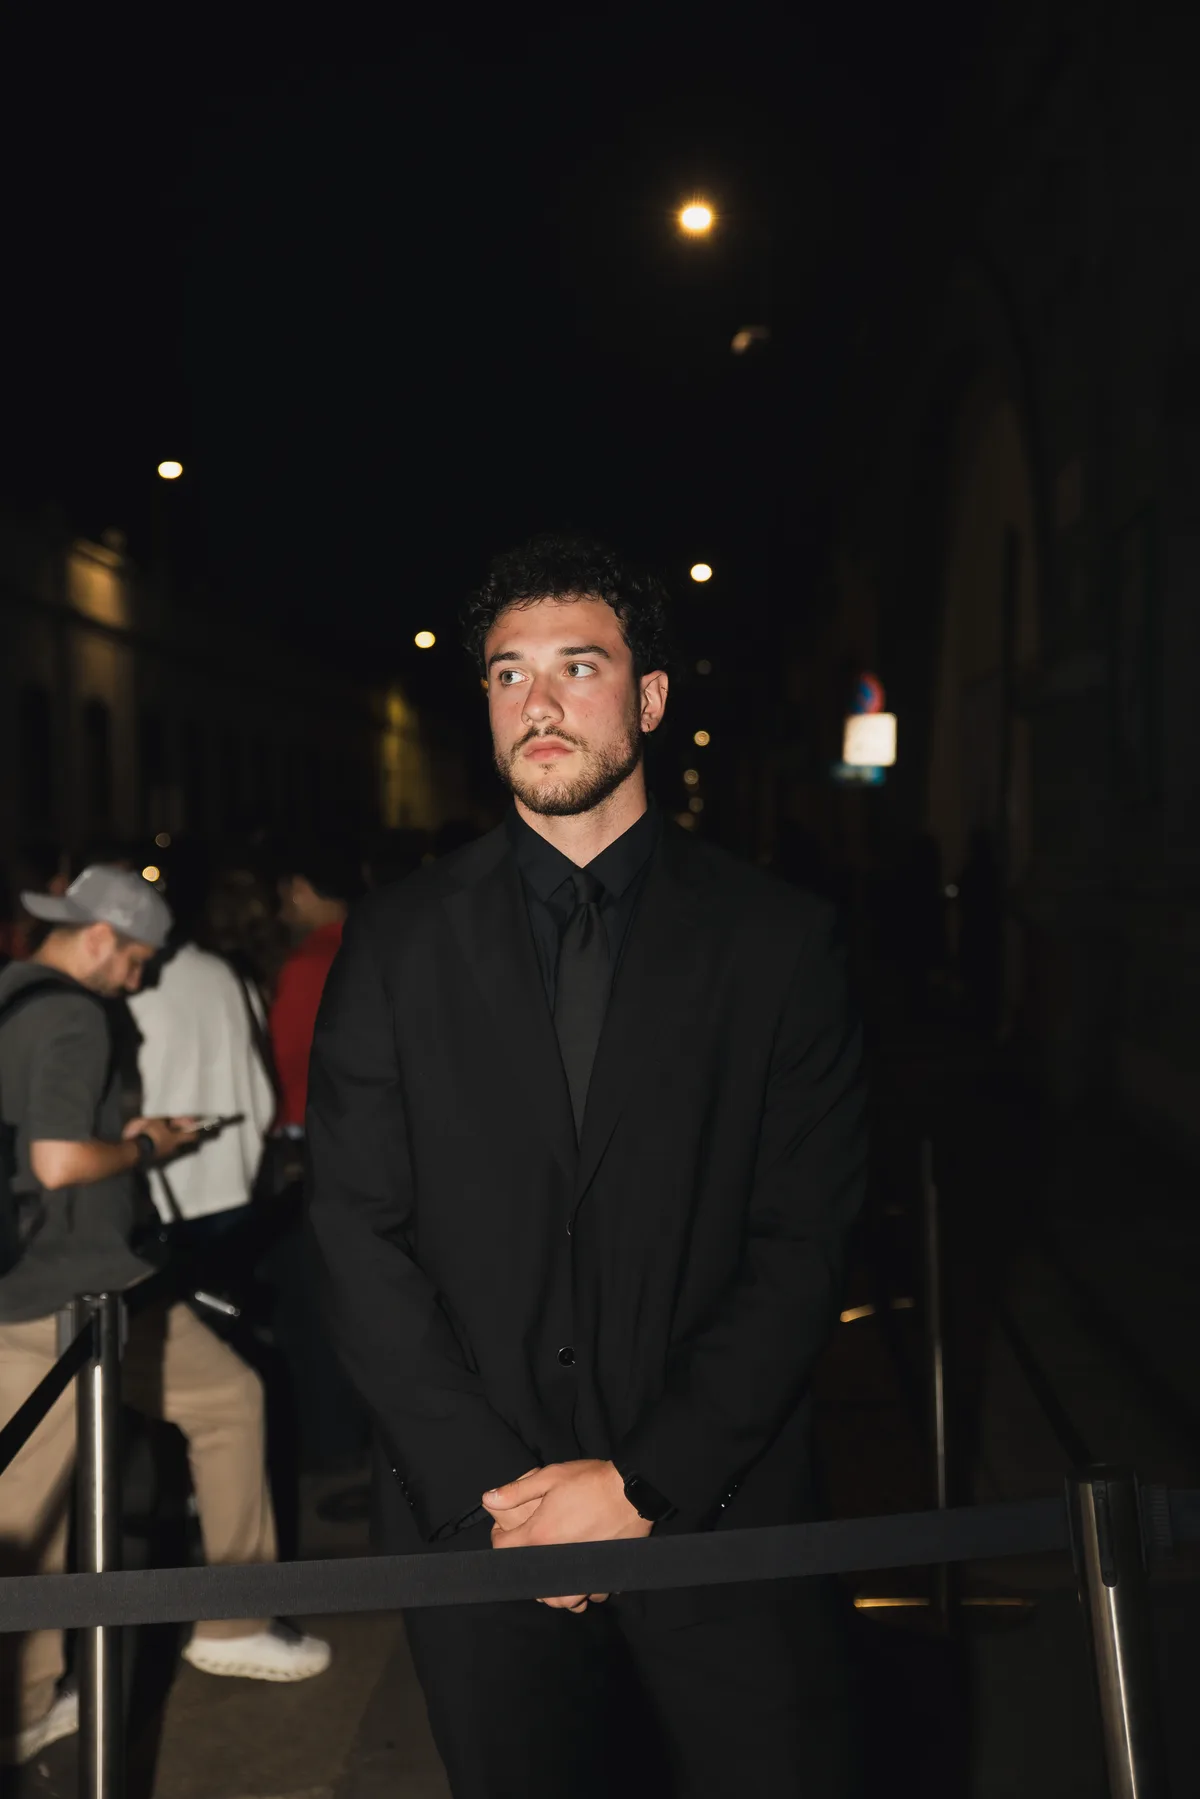
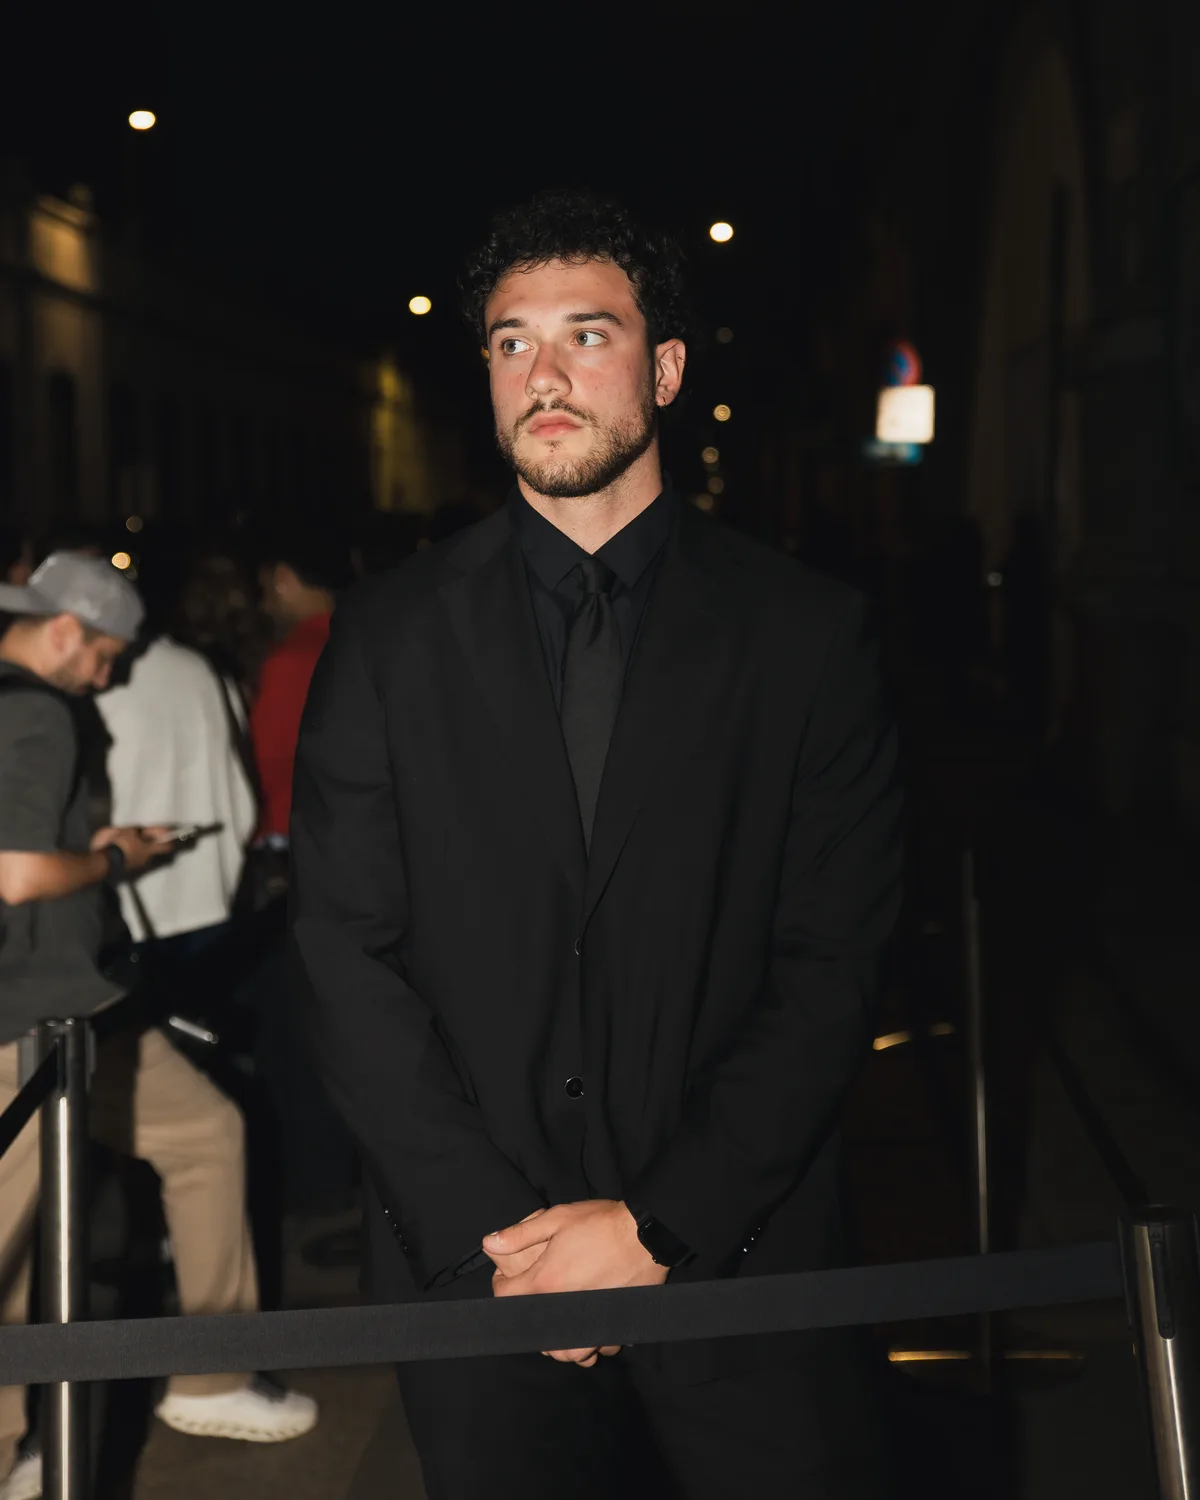
About: crop portrait to 4:5 and show it in color

diff --git a/src/components/sharlee/AboutSection.tsx b/src/components/sharlee/AboutSection.tsx
@@ -23,7 +23,7 @@ export const AboutSection = () => {
             src="/media/pierfilippo-portrait.webp"
             alt=""
             fill
-            className="object-cover grayscale opacity-60 dark:opacity-20 transition-opacity duration-1000"
+            className="object-cover opacity-60 dark:opacity-20 transition-opacity duration-1000"
             loading="lazy"
           />
           {/* Overlay gradiente radiale e lineare per far finire l'immagine in modo naturale */}
@@ -41,7 +41,7 @@ export const AboutSection = () => {
                 alt="Pierfilippo Quartarella"
                 fill
                 sizes="(max-width: 768px) 100vw, (max-width: 1200px) 50vw, 33vw"
-                className="object-cover transition-[transform,filter] duration-700 group-hover:scale-105 grayscale hover:grayscale-0"
+                className="object-cover transition-[transform,filter] duration-700 group-hover:scale-105"
                 loading="lazy"
               />
               <div className="absolute inset-0 bg-gradient-to-tr from-black/20 to-transparent dark:from-white/5 dark:to-transparent pointer-events-none group-hover:opacity-0 transition-opacity" />
